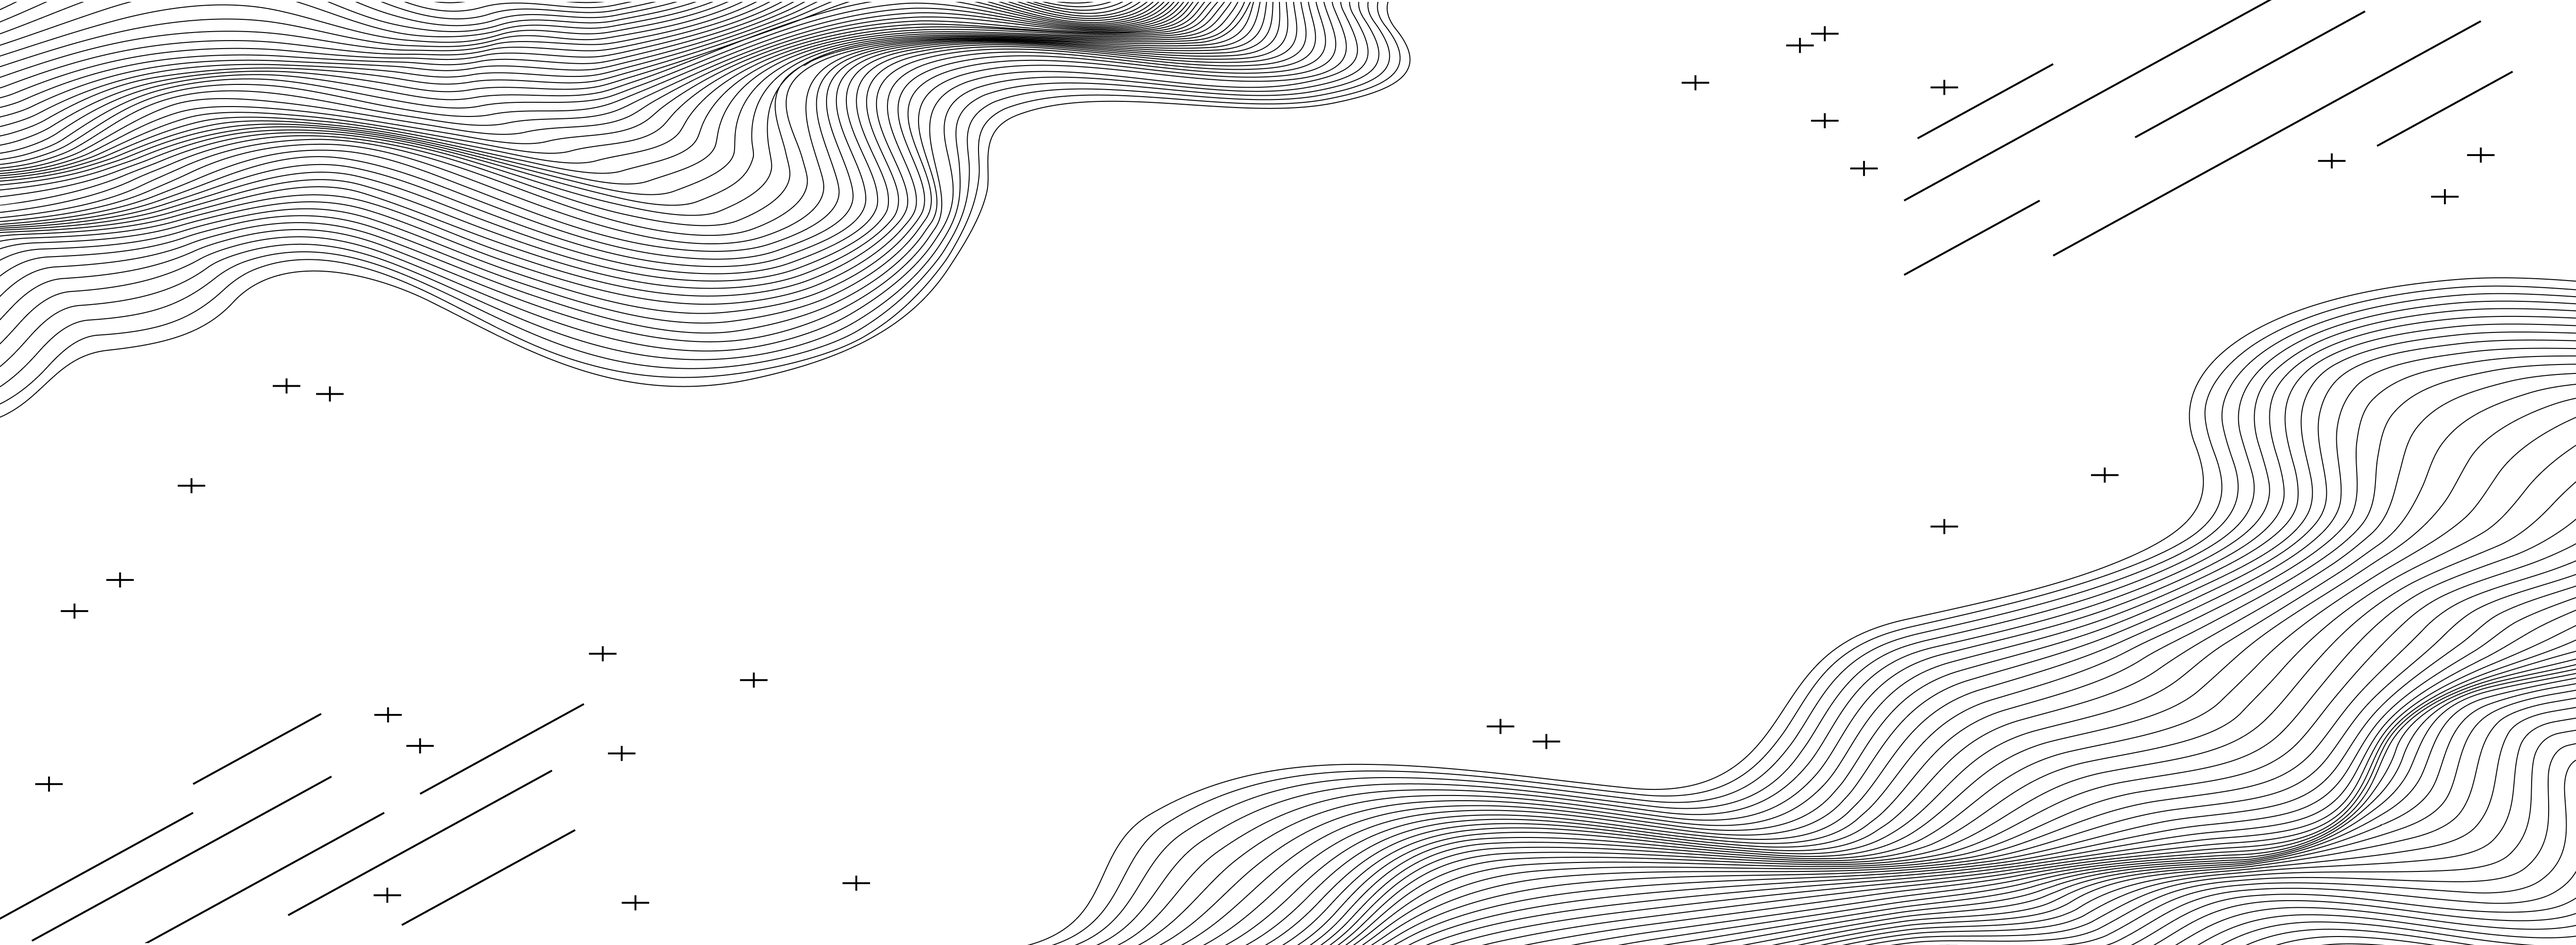
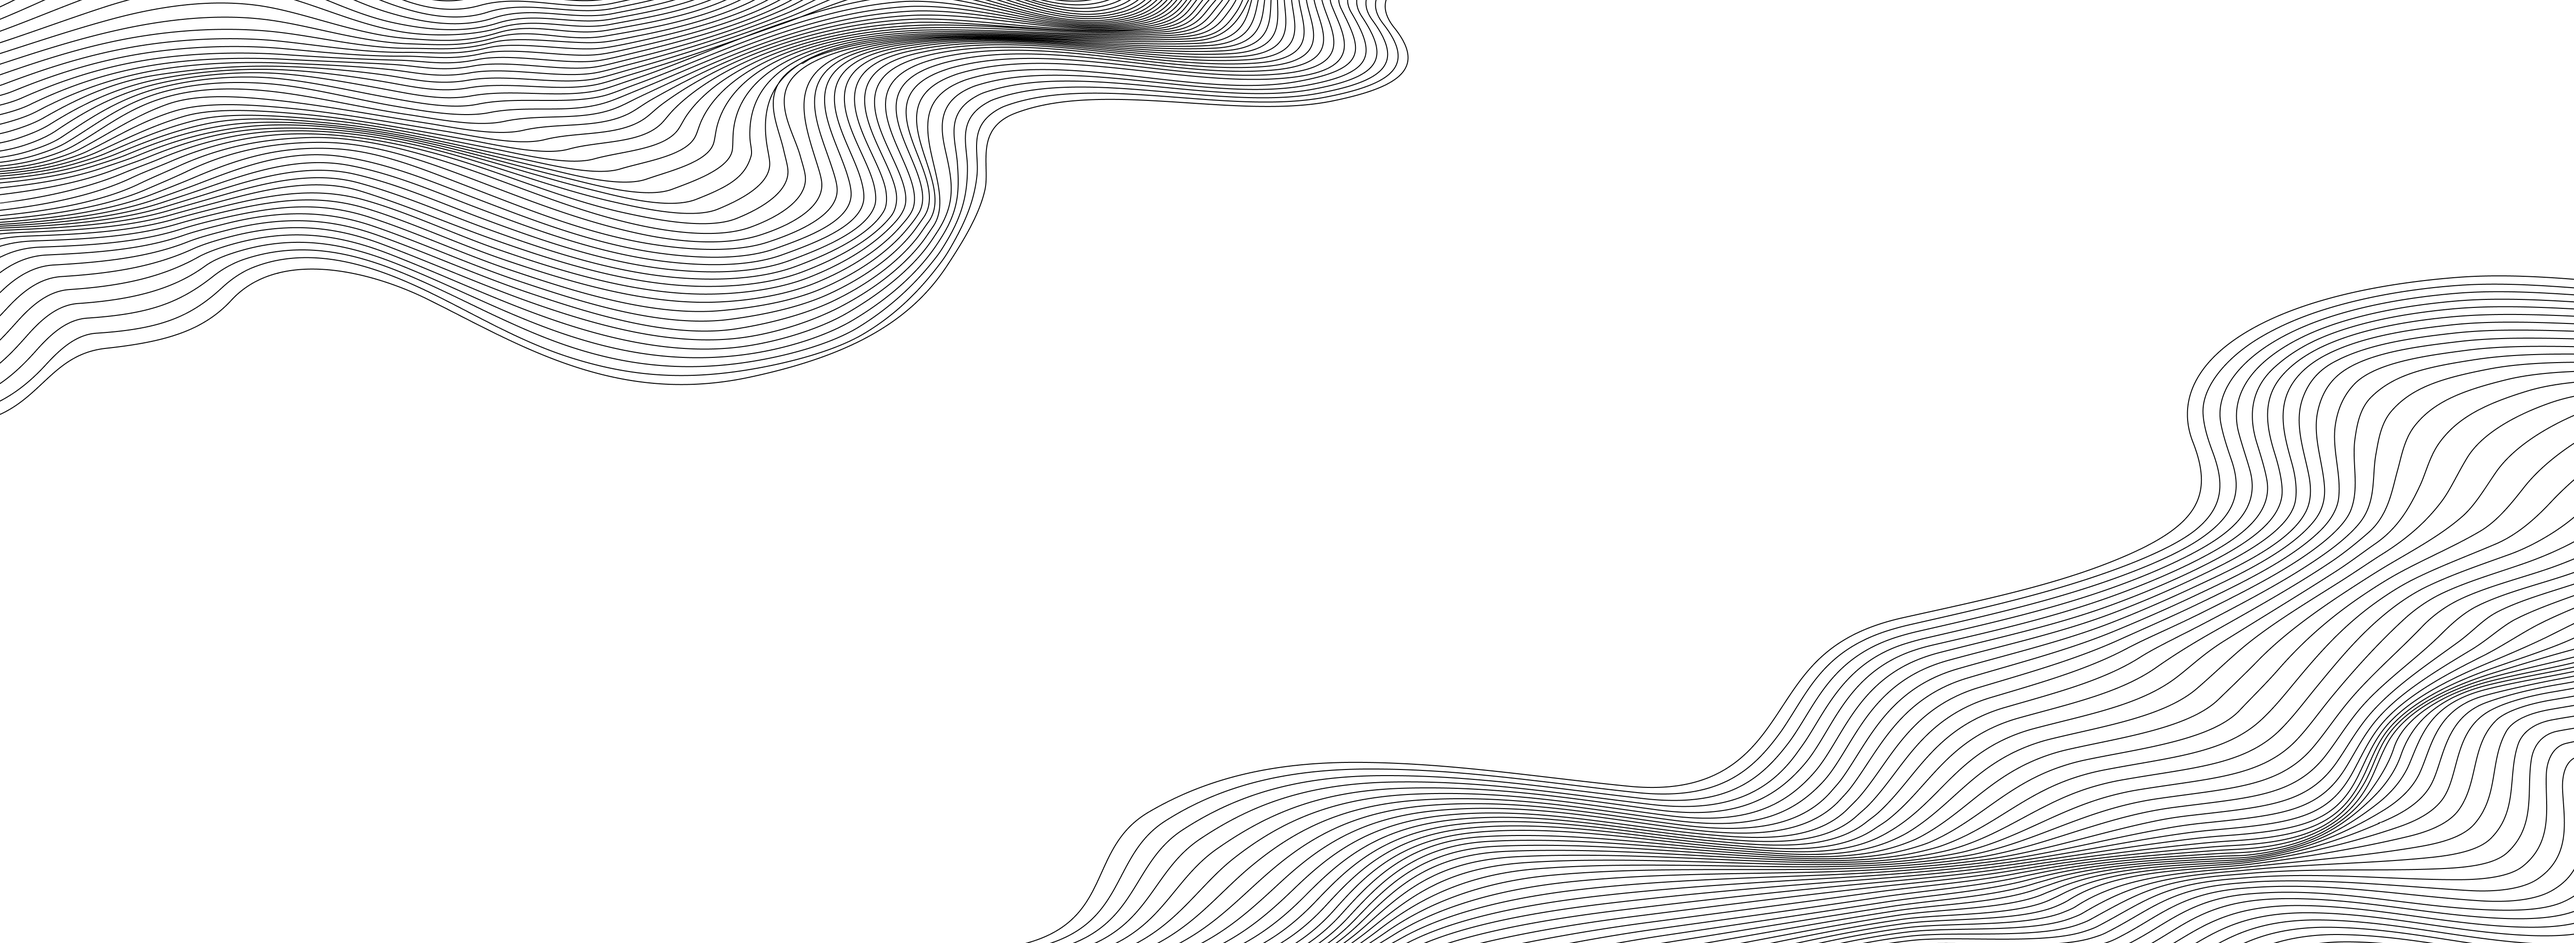
feat: optimize background and use LazyMotion

Changed region(s): [[0.4051, 0.527, 1.0, 1.0], [0.0, 0.0, 0.5609, 0.434], [0.8413, 0.279, 1.0, 0.434]]

diff --git a/src/components/Feature.tsx b/src/components/Feature.tsx
@@ -1,4 +1,4 @@
-import { motion, Variants } from 'framer-motion';
+import { m, Variants } from 'framer-motion';
 import React from 'react';
 import useScreenSize from 'use-screen-size';
 import { IFeature } from '../config';
@@ -11,9 +11,11 @@ export interface IFeatureProps {
 const descriptVariants: Variants = {
   offscreen: {
     opacity: 0,
+    translateY: -20,
   },
   onscreen: {
     opacity: 1,
+    translateY: 0,
     transition: { ease: 'easeOut', duration: 1, delay: 0.2 },
   },
 };
@@ -21,9 +23,11 @@ const descriptVariants: Variants = {
 const imageVariants: Variants = {
   offscreen: {
     opacity: 0,
+    translateY: -20,
   },
   onscreen: {
     opacity: 1,
+    translateY: 0,
     transition: { ease: 'easeOut', duration: 1 },
   },
 };
@@ -31,24 +35,26 @@ const imageVariants: Variants = {
 function Feature(props: IFeatureProps) {
   const { feature, index } = props;
   const size = useScreenSize();
+  const image = React.useMemo(
+    () => <img src={feature.image} loading="lazy" decoding="async" />,
+    [feature.image],
+  );
 
   return (
-    <motion.div
+    <m.div
       className={`flex items-center flex-col-reverse mb-8 sm:mb-0
       ${index % 2 === 0 ? `sm:flex-row-reverse` : `sm:flex-row`}`}
       initial={size.screen === 'xs' ? 'onscreen' : 'offscreen'}
       whileInView={size.screen === 'xs' ? undefined : 'onscreen'}
       viewport={{ once: true, amount: 0.6 }}
     >
-      <div className="w-1/2 sm:w-full mb-4 sm:mb-0 basis-5/12 -mt-10">
-        <motion.img
-          src={feature.image}
-          loading="lazy"
-          decoding="async"
-          variants={imageVariants}
-        />
-      </div>
-      <motion.div
+      <m.div
+        className="w-1/2 sm:w-full mb-4 sm:mb-0 basis-5/12 -mt-10"
+        variants={imageVariants}
+      >
+        {image}
+      </m.div>
+      <m.div
         className="basis-7/12 py-10 px-20 sm:py-6 sm:px-12 z-30 backdrop-blur-[1px] bg-white bg-opacity-30 rounded-md"
         variants={descriptVariants}
       >
@@ -64,8 +70,8 @@ function Feature(props: IFeatureProps) {
             ”
           </span>
         </p>
-      </motion.div>
-    </motion.div>
+      </m.div>
+    </m.div>
   );
 }
 

diff --git a/src/components/Mask.tsx b/src/components/Mask.tsx
@@ -1,5 +1,5 @@
 import {
-  motion,
+  m,
   TargetAndTransition,
   Transition,
   useAnimationControls,
@@ -8,10 +8,7 @@ import React from 'react';
 
 export interface IMaskProps {
   src: string;
-  animate: (
-    containerRect: DOMRect,
-    maskRect: DOMRect,
-  ) => TargetAndTransition;
+  animate: (containerRect: DOMRect, maskRect: DOMRect) => TargetAndTransition;
   containerClassName?: string;
 }
 
@@ -22,24 +19,19 @@ function Mask(props: IMaskProps) {
   const controls = useAnimationControls();
   const [loaded, setLoaded] = React.useState(false);
 
-  const startAnimate = React.useCallback((transition?: Transition) => {
-    const containerRect = containerRef.current?.getBoundingClientRect();
-    const maskRect = maskRef.current?.getBoundingClientRect();
-    const animation = animate(containerRect!, maskRect!);
-    if (transition) {
-      animation.transition = transition;
-    }
-    controls.start(animation);
-    return controls.stop;
-  }, [controls, animate]);
-
-  // React.useEffect(() => {
-  //   const listener = () => startAnimate({ duration: 0 });
-  //   window.addEventListener('resize', listener);
-  //   return () => {
-  //     window.removeEventListener('resize', listener);
-  //   };
-  // }, [startAnimate]);
+  const startAnimate = React.useCallback(
+    (transition?: Transition) => {
+      const containerRect = containerRef.current?.getBoundingClientRect();
+      const maskRect = maskRef.current?.getBoundingClientRect();
+      const animation = animate(containerRect!, maskRect!);
+      if (transition) {
+        animation.transition = transition;
+      }
+      controls.start(animation);
+      return controls.stop;
+    },
+    [controls, animate],
+  );
 
   React.useEffect(() => {
     if (!loaded) {
@@ -47,11 +39,11 @@ function Mask(props: IMaskProps) {
     }
     const stop = startAnimate();
     return stop;
-  }, [loaded]);
+  }, [loaded, startAnimate]);
 
   return (
     <div className={containerClassName} ref={containerRef}>
-      <motion.img
+      <m.img
         className="absolute"
         ref={maskRef}
         src={src}

diff --git a/src/sections/HeroSection.tsx b/src/sections/HeroSection.tsx
@@ -5,7 +5,7 @@ import Mask, { IMaskProps } from '../components/Mask';
 import heroBackground from '../assets/img/webp/hero-background.webp';
 import topMaskImage from '../assets/img/webp/top-mask.webp';
 import bottomMaskImage from '../assets/img/webp/bottom-mask.webp';
-import { motion, useMotionValueEvent, useScroll } from 'framer-motion';
+import { m, useMotionValueEvent, useScroll } from 'framer-motion';
 import Brand from '../components/Brand';
 import Starting from '../components/Strating';
 
@@ -37,8 +37,8 @@ function HeroSection() {
   );
 
   const bottomMaskAnimate: IMaskProps['animate'] = React.useCallback(
-    (containerRect: DOMRect, maskRect: DOMRect) => {
-      const top = containerRect.bottom - maskRect.height;
+    (_, maskRect: DOMRect) => {
+      const top = window.innerHeight - maskRect.height;
       return {
         top,
         transition: HERO_TRANSITION,
@@ -73,7 +73,7 @@ function HeroSection() {
         </div>
 
         <div className="absolute bottom-0 left-0 w-full flex flex-row justify-center z-20">
-          <motion.div
+          <m.div
             className="flex flex-col sm:flex-row mb-10 sm:mb-12 xl:mb-16 2xl:mb-20"
             initial={{ opacity: 0 }}
             animate={{ opacity: 1, transition: BUTTON_TRANSITION }}
@@ -81,7 +81,7 @@ function HeroSection() {
             <Button text="Open Docsite" href="https://docs.axonweb3.io/" />
             <div className="w-6 h-4 2xl:w-8" />
             <Button text="Open in GitHub" href="https://github.com/axonweb3" />
-          </motion.div>
+          </m.div>
         </div>
       </div>
 

diff --git a/src/components/Link.tsx b/src/components/Link.tsx
@@ -3,7 +3,7 @@ import linkBackground from '../assets/img/webp/link-background.webp';
 import linkHoverBackground from '../assets/img/webp/link-hover.webp';
 import learnMoreImage from '../assets/img/webp/learn-more.webp';
 import { ILink } from '../config';
-import { motion, useAnimationControls } from 'framer-motion';
+import { m, useAnimationControls } from 'framer-motion';
 
 export interface ILinkProps {
   item: ILink;
@@ -29,14 +29,14 @@ function Link(props: ILinkProps) {
   }, [hover, controls]);
 
   return (
-    <motion.div
+    <m.div
       className="relative"
       onMouseOver={() => setHover(true)}
       onMouseOut={() => setHover(false)}
     >
       <a href={item.link}>
         <img src={linkBackground} />
-        <motion.img
+        <m.img
           className="absolute top-0 left-0 opacity-0"
           src={linkHoverBackground}
           initial="hidden"
@@ -58,7 +58,7 @@ function Link(props: ILinkProps) {
           </div>
         </div>
       </a>
-    </motion.div>
+    </m.div>
   );
 }
 

diff --git a/src/sections/FeaturesSection.tsx b/src/sections/FeaturesSection.tsx
@@ -1,14 +1,20 @@
 import React from 'react';
+import useScreenSize from 'use-screen-size';
 import { features, IFeature } from '../config';
 import featuresBackground from '../assets/img/webp/features-background.webp';
 import featureTitle from '../assets/img/webp/features-title.webp';
 import Feature from '../components/Feature';
 
 function FeaturesSection() {
+  const size = useScreenSize();
+
   return (
     <div
-      className={`bg-none sm:bg-contain pb-20`}
-      style={{ backgroundImage: `url(${featuresBackground})` }}
+      className={`bg-contain pb-20`}
+      style={{
+        backgroundImage:
+          size.screen === 'xs' ? '' : `url(${featuresBackground})`,
+      }}
     >
       <div className="flex flex-row justify-center pt-16">
         <img className="w-5/12 sm:w-3/12 md:w-2/12" src={featureTitle} />

diff --git a/src/components/Brand.tsx b/src/components/Brand.tsx
@@ -1,6 +1,6 @@
 import React from 'react';
 import brandImage from '../assets/img/webp/brand.webp';
-import { motion, useAnimation, useScroll, useTransform } from 'framer-motion';
+import { m, useAnimation, useScroll, useTransform } from 'framer-motion';
 import useScreenSize from 'use-screen-size';
 
 const brandVariants = {
@@ -29,7 +29,7 @@ function Brand() {
 
   return (
     <div className="py-40" ref={ref}>
-      <motion.div
+      <m.div
         className="flex flex-col justify-center items-center"
         style={
           size.screen === 'xs'
@@ -55,7 +55,7 @@ function Brand() {
           Axon is a layer 2 framework built on CKB aims to unleash the power of
           app-chain future.
         </p>
-      </motion.div>
+      </m.div>
     </div>
   );
 }

diff --git a/src/App.tsx b/src/App.tsx
@@ -1,6 +1,8 @@
+import { LazyMotion } from 'framer-motion';
 import React from 'react';
 import Footer from './components/Footer';
 import HeroSection from './sections/HeroSection';
+import { domAnimation } from 'framer-motion';
 
 const FeaturesSection = React.lazy(() => import('./sections/FeaturesSection'));
 const FindUsSection = React.lazy(() => import('./sections/FindUsSection'));
@@ -13,7 +15,7 @@ function App() {
   }, []);
 
   return (
-    <>
+    <LazyMotion features={domAnimation}>
       <main>
         <HeroSection />
         <React.Suspense fallback={null}>
@@ -22,7 +24,7 @@ function App() {
         </React.Suspense>
       </main>
       <Footer />
-    </>
+    </LazyMotion>
   );
 }
 

diff --git a/src/components/Strating.tsx b/src/components/Strating.tsx
@@ -1,4 +1,4 @@
-import { motion, useAnimation, useScroll, useTransform } from 'framer-motion';
+import { m, useAnimation, useScroll, useTransform } from 'framer-motion';
 import startingImage from '../assets/img/webp/starting.webp';
 import React from 'react';
 
@@ -18,7 +18,7 @@ function Starting() {
 
   return (
     <div className="flex flex-row justify-center" ref={ref}>
-      <motion.img
+      <m.img
         className="w-10/12 lg:w-8/12 xl:w-6/12"
         style={{
           opacity: rate,

diff --git a/src/motion.ts b/src/motion.ts
@@ -1,0 +1,2 @@
+import { domAnimation } from 'framer-motion';
+export default domAnimation;
